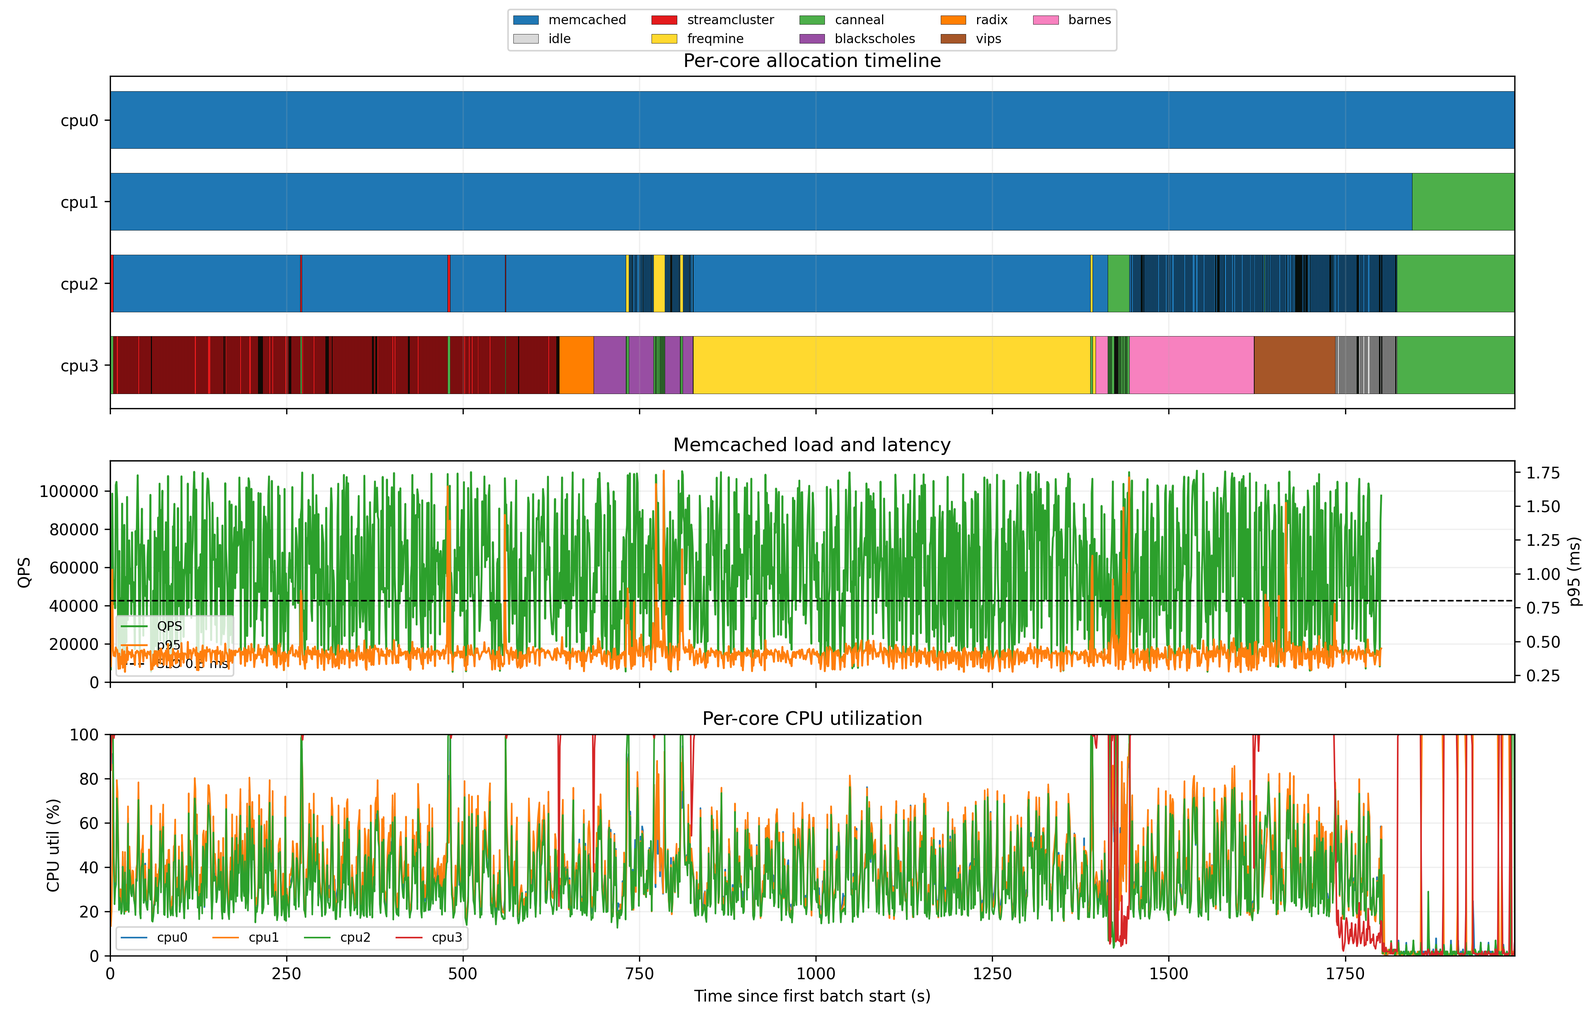
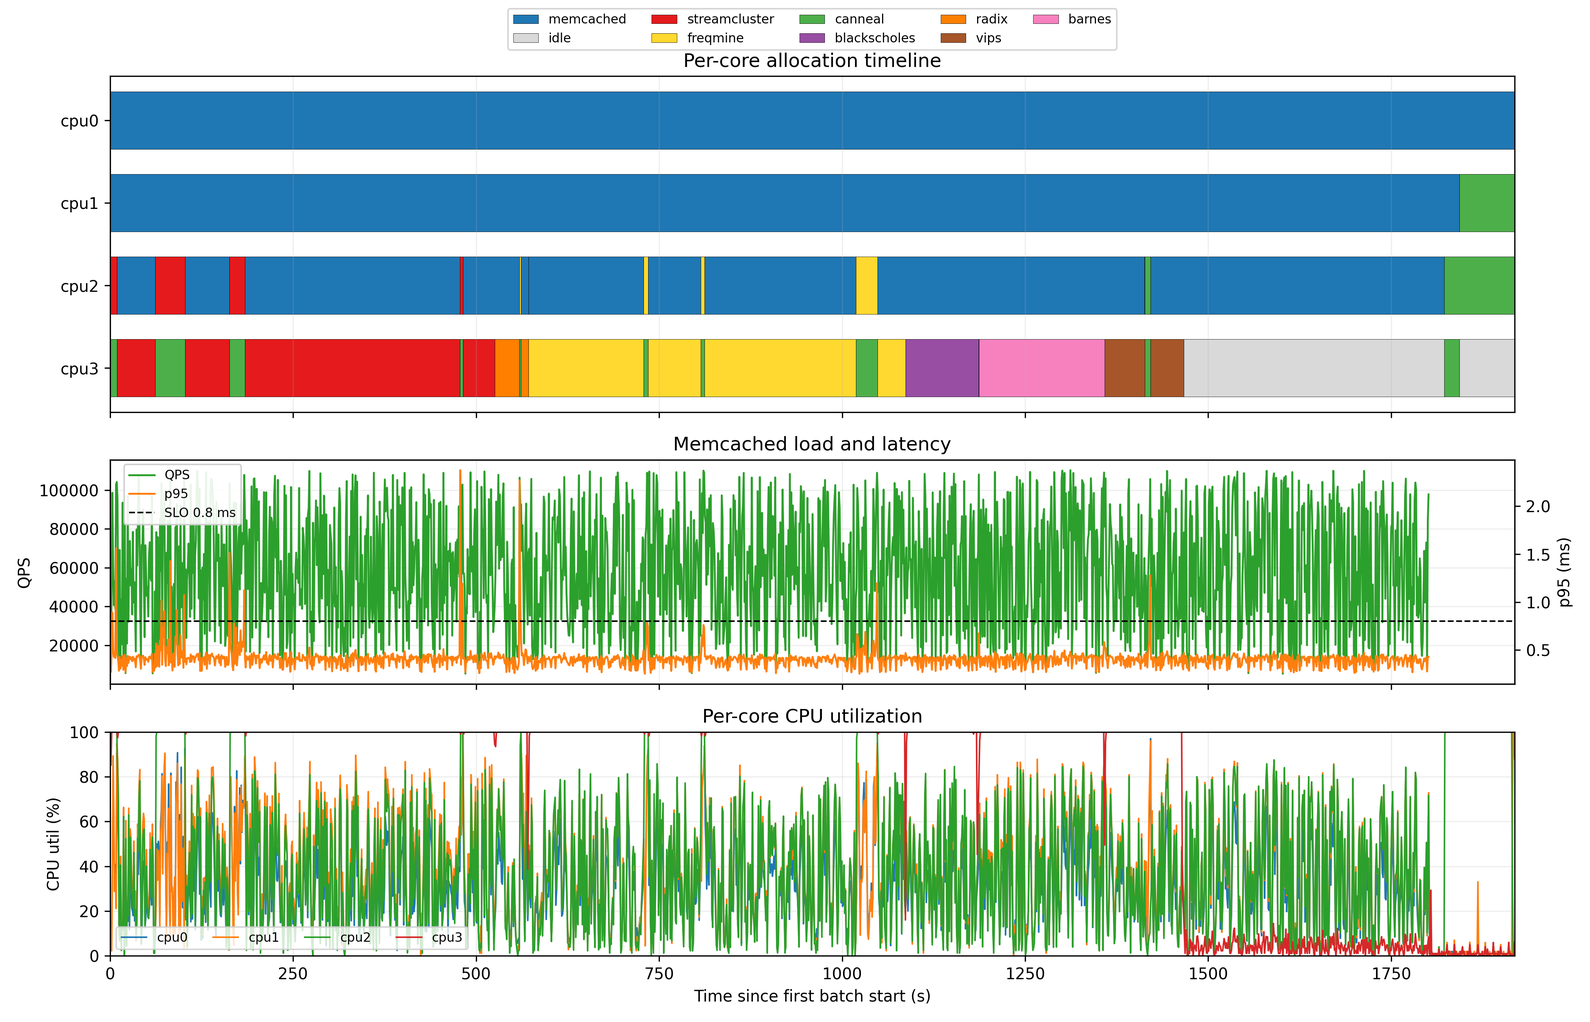
Update on Overleaf.

diff --git a/Project Template/part4.tex b/Project Template/part4.tex
@@ -101,79 +101,84 @@ $ ./mcperf -s INTERNAL_MEMCACHED_IP -a INTERNAL_AGENT_IP \
         \item Brief overview of the scheduling policy (max 10 lines):
         
     \textbf{Answer:}
-    Our controller samples memcached CPU usage every 1s and dynamically changes the number of cores assigned to memcached between 1 and 3. Memcached is pinned to the low-numbered cores, while Docker batch jobs are restricted to the remaining cores using cpuset updates. The policy prioritizes SLO protection: memcached
-    cores are increased immediately under high per-core CPU load, while cores are released only after sustained low load. Long jobs are started early to reduce makespan, but CPU/L1i-risky jobs may be paused during high memcached load. The controller does not use the future QPS trace; it reacts only to runtime CPU signals.
+    Our controller samples memcached CPU usage every 1 s and dynamically changes the number of cores assigned to memcached between 1 and 3. Memcached is pinned to the low-numbered cores, while Docker batch jobs are restricted to the remaining cores using cpuset updates. The policy prioritizes SLO protection: memcached cores are increased immediately under high per-core CPU load, while cores are released only after sustained low load. To reduce makespan, the final policy uses an opportunistic overlap mode: when memcached needs only one core, the two long critical-path jobs, \colored{streamcluster} and \colored{freqmine}, are allowed to run concurrently with a companion job. When memcached needs two or three cores, the policy falls back to a more conservative schedule. The controller does not use future QPS values; it reacts only to runtime CPU signals.
     \\
      
     \item How do you decide how many cores to dynamically assign to memcached? Why?
     
     \textbf{Answer:}
-    Memcached uses a fixed thread count of T*=3 and dynamically receives
-Cmem in {1,2,3}. The controller starts with Cmem=2. Every second it computes memcached CPU utilization per assigned core. If utilization exceeds $85\%$ per core, Cmem is increased immediately, up to 3 cores, to protect the 0.8ms p95 latency SLO. If utilization stays below $55\%$ per core for 20 seconds, Cmem is reduced by one, down to 1 core, to give more capacity back to batch jobs. This hysteresis avoids oscillations while still reacting quickly to high QPS.
+Memcached uses a fixed thread count of $T^*=3$ and dynamically receives $C_{mem}\in\{1,2,3\}$. The controller starts with $C_{mem}=2$. Every second it computes memcached CPU utilization per assigned core. If utilization exceeds $85\%$ per core, $C_{mem}$ is increased immediately, up to 3 cores, to protect the 0.8 ms p95 latency SLO. If utilization stays below $55\%$ per core for 20 seconds, $C_{mem}$ is reduced by one, down to 1 core, to give more capacity back to batch jobs. This hysteresis avoids oscillations while still reacting quickly to high QPS.
+
      \\
 
     \item How do you decide how many cores to assign each batch job? Why?
 
      \textbf{Answer:}
-All batch jobs run only on cores not currently used by memcached. If Cmem=1, batch jobs can use cores [1,2,3]; if Cmem=2, they use [2,3]; if Cmem=3, only core [3] is available. The controller normally gives the long critical-path job most of the available batch cores and collocates it with one companion job when possible.
+All batch jobs run only on cores not currently used by memcached. If $C_{mem}=1$, batch jobs can use cores $[1,2,3]$; if $C_{mem}=2$, they use $[2,3]$; if $C_{mem}=3$, only core $[3]$ is available. The final policy uses these cores opportunistically: at low memcached load ($C_{mem}=1$), it overlaps the two long jobs to shorten the critical path; at medium/high memcached load, it schedules more conservatively to protect the SLO.
+
 
 \begin{itemize}
     \item \colored{barnes}: short/risky companion job; usually 1 core when collocated, more only when long jobs are done.
     \item \colored{blackscholes}: short and relatively safe; 1 core when collocated, up to 2 cores due to weak scaling beyond that.
-    \item \colored{canneal}: memory-bandwidth style job; used as a companion at low/medium memcached load, but not launched while Cmem=3.
-    \item \colored{freqmine}: long critical-path job; receives most available batch cores when running, but is paused first under high memcached pressure.
+    \item \colored{canneal}: memory-bandwidth style job; used as a companion at low/medium memcached load, but not launched while $C_{mem}=3$.
+    \item \colored{freqmine}: long critical-path job; overlapped with \colored{streamcluster} when memcached has enough headroom, but paused first under high memcached pressure.
     \item \colored{radix}: safest short job; can run even when memcached uses 3 cores.
-    \item \colored{streamcluster}: long critical-path job; started early and receives most available batch cores.
+    \item \colored{streamcluster}: long critical-path job; started early and overlapped with \colored{freqmine} during low-load periods.
     \item \colored{vips}: short but CPU/L1i-risky; scheduled after safer short jobs and may be paused under high load.
 \end{itemize}
 
     \item How many threads do you use for each of the batch job? Why?
-    
-Threads are set equal to the number of assigned cores, capped by the per-job maximum. This avoids oversubscription inside a Docker cpuset.
+Threads are usually set equal to the number of assigned cores, capped by the per-job maximum. In the opportunistic low-load mode, \colored{streamcluster} and \colored{freqmine} use at least 2 software threads even when each receives one core; this kept both long jobs making progress and reduced makespan in our experiments.
 
 \begin{itemize}
-    \item \colored{barnes}: min(assigned cores, 4)
-    \item \colored{blackscholes}: min(assigned cores, 2)
-    \item \colored{canneal}: min(assigned cores, 2)
-    \item \colored{freqmine}: min(assigned cores, 4)
-    \item \colored{radix}: min(assigned cores, 4)
-    \item \colored{streamcluster}: min(assigned cores, 4)
-    \item \colored{vips}: min(assigned cores, 4)
+    \item \colored{barnes}: $\min(\text{assigned cores},4)$
+    \item \colored{blackscholes}: $\min(\text{assigned cores},2)$
+    \item \colored{canneal}: $\min(\text{assigned cores},2)$
+    \item \colored{freqmine}: $\min(\max(\text{assigned cores},2),4)$ in opportunistic mode
+    \item \colored{radix}: $\min(\text{assigned cores},4)$
+    \item \colored{streamcluster}: $\min(\max(\text{assigned cores},2),4)$ in opportunistic mode
+    \item \colored{vips}: $\min(\text{assigned cores},4)$
 \end{itemize}
 
       
     \item Which jobs run concurrently / are collocated and on which cores? Why?
 
     \textbf{Answer:}
-     Memcached always uses the low-numbered cores [0..Cmem-1]. Batch jobs use only the remaining high-numbered cores. With two or three batch cores available, the policy usually collocates one long job, streamcluster or freqmine, with one companion job such as canneal, radix, blackscholes, barnes, or vips. With only one batch core available, only one safe/useful job is run, preferring radix or blackscholes and avoiding canneal when Cmem=3. This keeps risky interference away from memcached during high load while still making progress on batch jobs.
+Memcached always uses the low-numbered cores $[0..C_{mem}-1]$. Batch jobs use only the remaining high-numbered cores. When $C_{mem}=1$, the controller can use cores 1--3 and may collocate \colored{streamcluster}, \colored{freqmine}, and one companion job. When $C_{mem}=2$, it usually runs one long job plus one companion job. When $C_{mem}=3$, only one safe/useful batch job runs on the remaining core, preferring \colored{radix} or \colored{blackscholes}. This keeps risky interference away from memcached during high load while exploiting low-load periods to shorten the batch critical path.
+
      \\
     
     \item In which order did you run the batch jobs? Why?
 
-    \textbf{Order} (to be sorted): % Sort them 
+\textbf{Order} (to be sorted):
 \colored{streamcluster}, \colored{freqmine}, \colored{canneal},
 \colored{radix}, \colored{blackscholes}, \colored{barnes}, \colored{vips}
-    
+
+
+
+
+
     \textbf{Why:}
-     The policy prioritizes streamcluster and freqmine because they are the longest critical-path jobs, so delaying them increases makespan. Canneal is started as a companion when enough memcached headroom exists, but it is blocked when memcached needs 3 cores. Among short jobs, radix and blackscholes are scheduled early because they are safer for memcached, while barnes and vips are more CPU/L1i-risky and are therefore scheduled later or paused under pressure.
+    The policy prioritizes \colored{streamcluster} and \colored{freqmine} because they are the longest critical-path jobs, so delaying them increases makespan. \colored{canneal} is started as a companion when enough memcached headroom exists, but it is blocked when memcached needs 3 cores. Among short jobs, \colored{radix} and \colored{blackscholes} are scheduled early because they are safer for memcached, while \colored{barnes} and \colored{vips} are more CPU/L1i-risky and are therefore scheduled later or paused under pressure.
+
      \\
 
 \item How does your policy differ from the policy in Part 3? Why?
 
-\textbf{Answer:} Part 3 used a static schedule and fixed resource assignment for a fixed-load scenario. Part 4 uses a dynamic QPS trace on one 4-core VM, so a static assignment would either waste cores at low QPS or violate the memcached SLO at high QPS. The Part 4 controller therefore continuously adjusts memcached cores, updates Docker cpusets for batch jobs, and uses pause/unpause as a recovery
-mechanism.
+\textbf{Answer:} Part 3 used a static schedule and fixed resource assignment for a fixed-load scenario. Part 4 uses a dynamic QPS trace on one 4-core VM, so a static assignment would either waste cores at low QPS or violate the memcached SLO at high QPS. The Part 4 controller therefore continuously adjusts memcached cores, updates Docker cpusets for batch jobs, and uses pause/unpause as a recovery mechanism. In addition, unlike Part 3, it opportunistically overlaps the long batch jobs only when memcached has enough headroom, and falls back to a conservative schedule when memcached load increases.
+
 \\
 
 \item How did you implement your policy? e.g., docker cpu-set updates, taskset updates for memcached, pausing/unpausing containers, etc.
 
-\textbf{Answer:} The controller runs on the memcache-server VM. Memcached is controlled with taskset to update its CPU affinity. Batch jobs are launched as Docker containers with the native input dataset and fixed cpusets. While running, the controller uses Docker cpuset updates to move containers to the currently available batch
-cores. If memcached per-core CPU exceeds the recovery threshold, the controller pauses the riskiest running container; it unpauses paused containers once memcached utilization falls below the recovery threshold. All start, end, pause, unpause, and core-update events are logged.
+\textbf{Answer:} The controller runs on the memcache-server VM. Memcached is controlled with \texttt{taskset} to update its CPU affinity. Batch jobs are launched as Docker containers with the native input dataset and fixed cpusets. While running, the controller uses Docker cpuset updates to move containers to the currently available batch cores. If memcached per-core CPU exceeds the recovery threshold, the controller pauses the riskiest running container; it unpauses paused containers once memcached utilization falls below the recovery threshold and the job is still part of the desired schedule. All start, end, pause, unpause, and core-update events are logged.
+
 \\
 
 \item Describe the design choices, ideas and trade-offs you took into account while creating your scheduler (\underline{if not already mentioned above}). Describe how your policy (and its performance) compares to another policy that you experimented with (in particular to the second-best policy that you designed).
 
-\textbf{Answer:} The main trade-off is makespan versus memcached SLO protection. A more aggressive policy that always keeps the longest job running can reduce makespan under easy QPS intervals, but it risks collocating CPU/L1i-heavy jobs with memcached during
-high-load periods. Our chosen policy is more conservative: it gives memcached cores immediately when load rises and only releases them after sustained low load. In the measured 15s-interval experiment, all seven batch jobs completed successfully in all three runs and the memcached SLO violation ratio was $0.0\%$ for each run.
+\textbf{Answer:} The main trade-off is makespan versus memcached SLO protection. The original conservative policy completed Q4.iii in $1208.52\pm33.00$ s with no SLO violations, but it left too much critical-path work serialized. We therefore tested a more aggressive policy that always overlapped the two long jobs; it reduced makespan in some runs but produced SLO violations above the 3\% target. The final opportunistic-overlap policy keeps this overlap only when memcached has been reduced to one core, and falls back to the conservative schedule when memcached needs more protection. With this design, Q4.iii improved to $968.19\pm23.20$ s while keeping the SLO violation ratio at $0.0\%$ in all three runs.
+
 \\
 \end{itemize}
 
@@ -195,19 +200,20 @@ $ ./mcperf -s INTERNAL_MEMCACHED_IP -a INTERNAL_AGENT_IP \
         \begin{tabular}{ |c|c|c|c|c|} 
             \hline
             job name & mean time [s] & std [s] \\ \hline \hline
-            \coloredcell{barnes}          & 175.12 & 5.03 \\  \hline
-            \coloredcell{blackscholes}    & 109.31 & 3.58 \\  \hline
-            \coloredcell{canneal}         & 277.96 & 2.75 \\  \hline
-            \coloredcell{freqmine}        & 554.61 & 8.76 \\  \hline
-            \coloredcell{radix}           & 42.84  & 2.84 \\  \hline
-            \coloredcell{streamcluster}   &  548.66 & 8.46 \\  \hline
-            \coloredcell{vips}            & 98.77  & 4.80 \\  \hline
-            total time      & 1208.52 & 33.00 \\  \hline
+            \coloredcell{barnes}          & 190.75 & 0.53 \\ \hline
+            \coloredcell{blackscholes}    & 118.64 & 0.48 \\ \hline
+            \coloredcell{canneal}         & 289.54 & 1.32 \\ \hline
+            \coloredcell{freqmine}        & 419.88 & 23.70 \\ \hline
+            \coloredcell{radix}           & 44.99  & 0.59 \\ \hline
+            \coloredcell{streamcluster}   & 543.76 & 7.14 \\ \hline
+            \coloredcell{vips}            & 94.21  & 0.37 \\ \hline
+            total time                    & 968.19 & 23.20 \\ \hline
         \end{tabular}
     \end{table}
 
     \textbf{Answer:}
-    We ran the dynamic mcperf trace with $qps\_interval=15$ and $qps\_seed=2345$ threetimes using our dynamic controller. All seven batch jobs completed successfully in every run. The reported job runtimes exclude time spent paused. The mean makespan over the three runs was 1208.52 s with a standard deviation of 33.00 s. The memcached SLO violation ratio was 0.0\% in all three runs: run 1 = $0.0\%$, run 2 = $0.0\%$, run 3 = $0.0\%$. Therefore, the controller met the 0.8 ms p95 latency SLO while completing all batch jobs.
+    We ran the dynamic mcperf trace with $qps\_interval=15$ and $qps\_seed=2345$ three times using our dynamic controller. All seven batch jobs completed successfully in every run. The reported job runtimes exclude time spent paused. The mean makespan over the three runs was $968.19$ s with a standard deviation of $23.20$ s. The memcached SLO violation ratio was $0.0\%$ in all three runs: run 1 = $0.0\%$, run 2 = $0.0\%$, run 3 = $0.0\%$. Therefore, the controller met the 0.8 ms p95 latency SLO while completing all batch jobs.
+
     \\
 
     Include three plots: one for each of the three runs with the following information: The x-axis should be the time from execution start to end. Use three subplots that share the same x-axis. The first should clearly indicate for each core what job it is running at all time (e.g. using colored boxes). Use the colors proposed in this template (you can find them in \texttt{main.text}). If you pause/unpause jobs as part of your scheduling policy this should also be clearly visible. The second subplot should include two y-axis where the left one shows the current QPS and the right one should include the achieved p95 latency. Finally, the third subplot should plot the cpu utilization of each core separately. The readability of your plot will be part of awarded points.
@@ -246,63 +252,69 @@ $ ./mcperf -s INTERNAL_MEMCACHED_IP -a INTERNAL_AGENT_IP \
     You do not need to include the plots or table from Question 3 for the 5-second interval. Instead, summarize in 2-3 sentences how your policy performs with the smaller time interval (i.e., higher load variability) compared to the original load trace in Question 3. 
 
     \textbf{Summary:} 
-    With $qps_{interval}=5$, the load changes more frequently than in Question 3, so the controller has less time to react and keeps/returns CPU capacity to memcached more aggressively. This increases the batch makespan compared to the 15 s trace, but the controller still keeps memcached below the required $3\%$ SLO violation threshold. The measured SLO violation ratio for the 5 s trace was $1.90\%$, compared with $0.41\%$ average for the original 15 s trace.
+    With $qps\_interval=5$, the load changes more frequently than in Question 3, so the controller has less time to react and keeps or returns CPU capacity to memcached more aggressively. This increases pressure on the scheduler compared with the 15 s trace, but the controller still keeps memcached below the required 3\% SLO violation threshold. In the 5 s sweep run, the SLO violation ratio was $0.76\%$, compared with $0.0\%$ average for the original 15 s trace.
+
     \\
     
     What is the SLO violation ratio for memcached (i.e., the number of datapoints with 95th percentile latency $>$ 0.8ms, as a fraction of the total number of datapoints) with the 5-second time interval trace? The SLO violation ratio should be calculated during the time from when the first batch-job-container starts running to when the last batch-job-container stops running.
 
-    \textbf{Answer:} The SLO violation ratio was $0.01897$, i.e. $1.90\%$.
+    \textbf{Answer:} The SLO violation ratio for the 5-second interval trace was $0.00756$, i.e. $0.76\%$.
+
     \\
     
     What is the smallest \texttt{qps\_interval} you can use in the load trace that allows your controller to respond fast enough to keep the memcached SLO violation ratio under 3\%? 
     
-    \textbf{Answer:} The smallest tested \texttt{$qps_{interval}$} that kept the memcached SLO violation ratio below $3\%$ was $1$ second.
+    \textbf{Answer:}The smallest tested \texttt{qps\_interval} that kept the memcached SLO violation ratio below $3\%$ was $1$ second.
+
     \\
     
     What is the reasoning behind this specific value? Explain which features of your controller affect the smallest \texttt{qps\_interval} interval you proposed.
 
-    \textbf{Answer:}We tested intervals $15,10,7,5,3,2,1$ seconds. The controller still stayed below the $3\%$ SLO violation threshold at $1$ second: the sweep run had $0.40\%$ violations, and the three final runs at this interval had an average violation ratio of $0.92\%$.This works because the controller samples CPU utilization and latency every second, immediately increases memcached's CPU allocation when pressure is high, and pauses/unpauses batch jobs when memcached needs protection. The main limiting factor is this 1-second control loop and the overhead of changing Docker CPU sets/taskset assignments; below 1 second the load could change faster than the controller can reliably observe and react.
+    \textbf{Answer:}We tested intervals $15,10,7,5,3,2,1$ seconds. The controller still stayed below the $3\%$ SLO violation threshold at $1$ second: the sweep run had $0.95\%$ violations. This works because the controller samples CPU utilization every second, immediately increases memcached's CPU allocation when pressure is high, and pauses/unpauses batch jobs when memcached needs protection. The main limiting factor is this 1-second control loop and the overhead of changing Docker cpusets and memcached taskset assignments; below 1 second the load could change faster than the controller can reliably observe and react.
+
     \\
 
-    Use this \texttt{qps\_interval} in the command above and collect results for three runs and fill out the table below. %Include the same types of plots (1A, 1B, 2A, 2B, 3A, 3B) and table as in Question 3. 
+    % Use this \texttt{qps\_interval} in the command above and collect results for three runs and fill out the table below. %Include the same types of plots (1A, 1B, 2A, 2B, 3A, 3B) and table as in Question 3. 
     
-    \begin{table}[ht]
-        \centering
-        \begin{tabular}{ |c|c|c|c|c|} 
-            \hline
-            job name & mean time [s] & std [s] \\ \hline \hline
-            \coloredcell{barnes}        & 195.49 & 2.72 \\ \hline
-            \coloredcell{blackscholes}  & 114.90 & 2.02 \\ \hline
-            \coloredcell{canneal}       & 285.74 & 15.60 \\ \hline
-            \coloredcell{freqmine}      & 600.32 & 2.13 \\ \hline
-            \coloredcell{radix}         & 48.83  & 1.06 \\ \hline
-            \coloredcell{streamcluster} & 629.36 & 8.98 \\ \hline
-            \coloredcell{vips}          & 114.93 & 0.58 \\ \hline
-            total time                  & 1991.11 & 1.71 \\ \hline
-        \end{tabular}
-    \end{table}
-\newpage
-    \textbf{Plots:} 
+%     \begin{table}[ht]
+%         \centering
+%         \begin{tabular}{ |c|c|c|c|c|} 
+%             \hline
+%             job name & mean time [s] & std [s] \\ \hline \hline
+%             \coloredcell{barnes}        & 195.49 & 2.72 \\ \hline
+%             \coloredcell{blackscholes}  & 114.90 & 2.02 \\ \hline
+%             \coloredcell{canneal}       & 285.74 & 15.60 \\ \hline
+%             \coloredcell{freqmine}      & 600.32 & 2.13 \\ \hline
+%             \coloredcell{radix}         & 48.83  & 1.06 \\ \hline
+%             \coloredcell{streamcluster} & 629.36 & 8.98 \\ \hline
+%             \coloredcell{vips}          & 114.93 & 0.58 \\ \hline
+%             total time                  & 1991.11 & 1.71 \\ \hline
+%         \end{tabular}
+%     \end{table}
+% \newpage
+%     \textbf{Plots:} 
 
-\begin{figure}[H]
-    \centering
-    \includegraphics[width=0.75\linewidth]{figures/q4iv_run_1.png}
-    \caption{Q4.iv run 1.}
-\end{figure}
+% \begin{figure}[H]
+%     \centering
+%     \includegraphics[width=0.75\linewidth]{figures/q4iv_run_1.png}
+%     \caption{Q4.iv run 1.}
+% \end{figure}
 
-\begin{figure}[H]
-    \centering
-    \includegraphics[width=0.75\linewidth]{figures/q4iv_run_2.png}
-    \caption{Q4.iv run 2.}
-\end{figure}
+% \begin{figure}[H]
+%     \centering
+%     \includegraphics[width=0.75\linewidth]{figures/q4iv_run_2.png}
+%     \caption{Q4.iv run 2.}
+% \end{figure}
 
-\begin{figure}[H]
-    \centering
-    \includegraphics[width=0.75\linewidth]{figures/q4iv_run_3.png}
-    \caption{Q4.iv run 3.}
-\end{figure}
+% \begin{figure}[H]
+%     \centering
+%     \includegraphics[width=0.75\linewidth]{figures/q4iv_run_3.png}
+%     \caption{Q4.iv run 3.}
+% \end{figure}
 
-\end{enumerate}
+% \end{enumerate}
 
 \noindent
-\textbf{\underline{Use of AI Tools}: Did you use any AI tools for this project? If so, disclose them here and explain what you used the tool(s) for and why. Note that the use of AI tools is NOT needed and NOT expected for the project.} 
+\textbf{\underline{Use of AI Tools}: Did you use any AI tools for this project? If so, disclose them here and explain what you used the tool(s) for and why. Note that the use of AI tools is NOT needed and NOT expected for the project.}
+
+We used AI tools as programming assistance during the project. In particular, AI helped us draft and refine scripts to automate the experimental pipeline, including cluster setup commands, experiment orchestration, result parsing, plotting, and packaging. AI was also used to support parts of the controller implementation and debugging, such as improving robustness, and identifying issues in log parsing or time alignment. 
